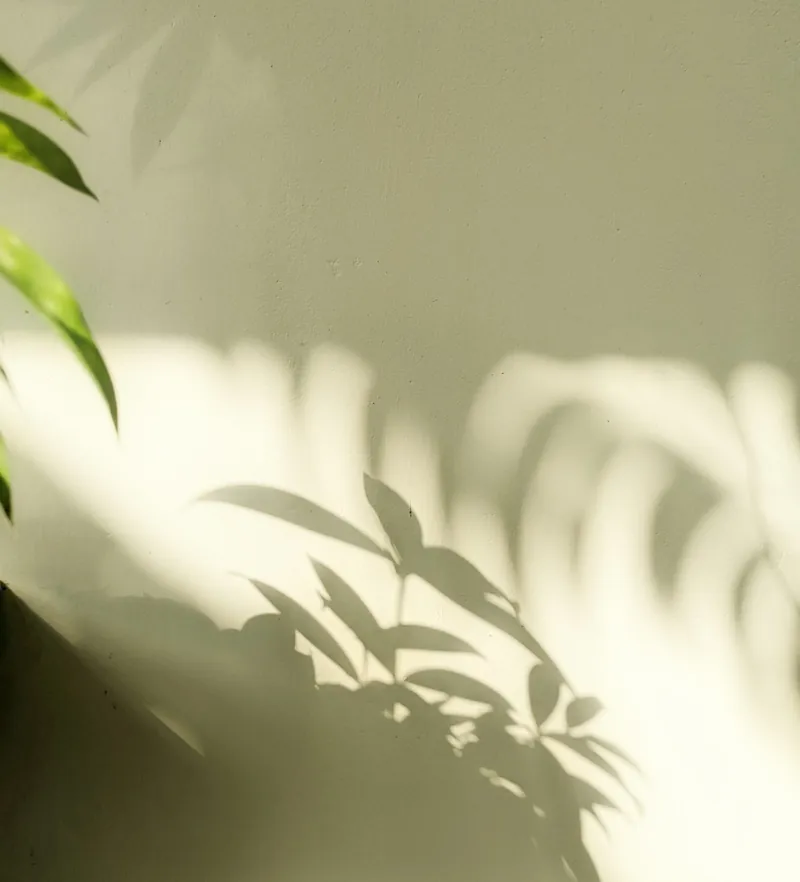
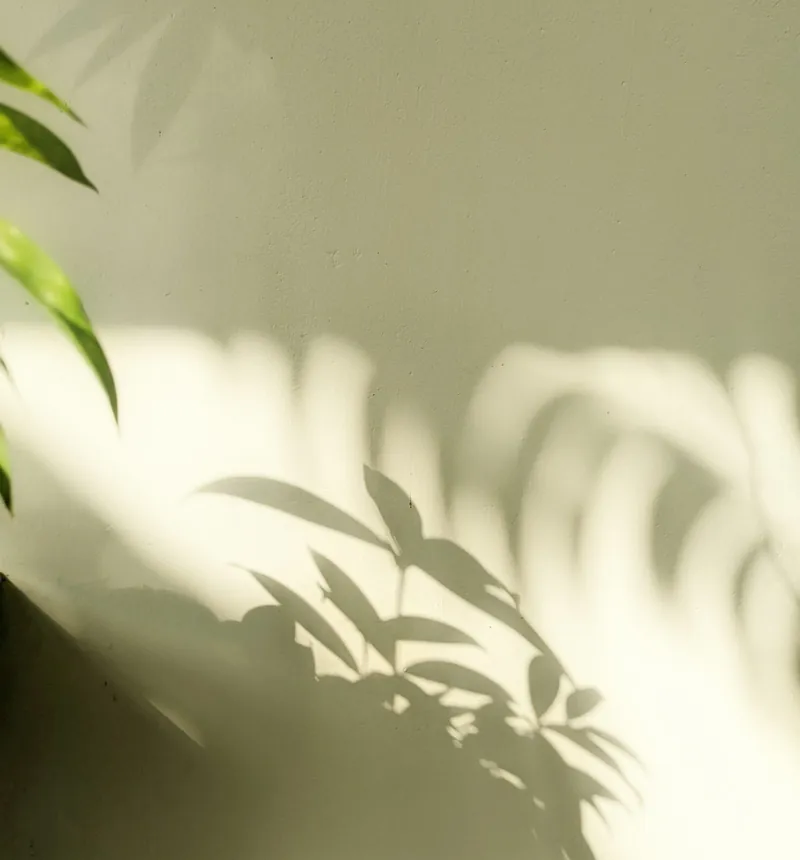
Home hero: phone stands in front of the laptop; sunlit wall photos without plants
Claude-Session: https://claude.ai/code/session_016f5G9AHh6DeZ4t2sgX3dQK

diff --git a/src/assets/css/site.css b/src/assets/css/site.css
@@ -78,13 +78,13 @@ h1 em, h2 em { white-space: nowrap; }
 .hero-art.devices { position: relative; height: auto; aspect-ratio: 460 / 520; width: 100%; max-width: none; margin: 0; container-type: inline-size; }
 .devices > div { position: absolute; }
 .devices img { display: block; width: 100%; height: 100%; object-fit: cover; object-position: top; }
-.devices .dv-wall { right: 0; top: 0; width: 86%; height: 84%; border-radius: var(--radius); overflow: hidden; }
-.devices .dv-laptop { width: 72%; left: 3%; top: 47%; }
+.devices .dv-wall { right: 0; top: 0; width: 86%; height: 82%; border-radius: var(--radius); overflow: hidden; }
+.devices .dv-laptop { width: 72%; left: 2%; top: 44%; }
 .devices .lid { background: #16181a; border-radius: 2.6cqw 2.6cqw .8cqw .8cqw; padding: 1.9cqw 1.9cqw 2.3cqw; box-shadow: 0 30px 60px rgba(30, 25, 15, .25); }
 .devices .dv-laptop .scr { aspect-ratio: 16 / 10; overflow: hidden; border-radius: 2px; background: #000; }
 .devices .base { position: relative; height: 2.6cqw; margin: 0 -7%; background: linear-gradient(#e2e2e5, #a9aaae 60%, #8d8e92); border-radius: 2px 2px 2.6cqw 2.6cqw; box-shadow: 0 18px 30px rgba(30, 25, 15, .22); }
 .devices .base::before { content: ""; position: absolute; left: 42%; width: 16%; top: 0; height: 30%; background: #9a9b9f; border-radius: 0 0 8px 8px; }
-.devices .dv-phone { width: 21%; right: 5%; top: 50%; background: #121314; border-radius: 6.6cqw; padding: 1.5cqw; box-shadow: 0 28px 50px rgba(30, 25, 15, .3), 0 0 0 1.5px #3a3b3e inset; }
+.devices .dv-phone { width: 22%; left: 66%; top: 52%; background: #121314; border-radius: 6.6cqw; padding: 1.5cqw; box-shadow: 0 28px 50px rgba(30, 25, 15, .3), 0 0 0 1.5px #3a3b3e inset; }
 .devices .dv-phone .scr { position: relative; aspect-ratio: 9 / 19.5; overflow: hidden; border-radius: 5.2cqw; background: #000; }
 .devices .dv-phone .scr::after { content: ""; position: absolute; top: 2.2%; left: 35%; width: 30%; height: 3.4%; border-radius: 12px; background: #0b0b0c; }
 
